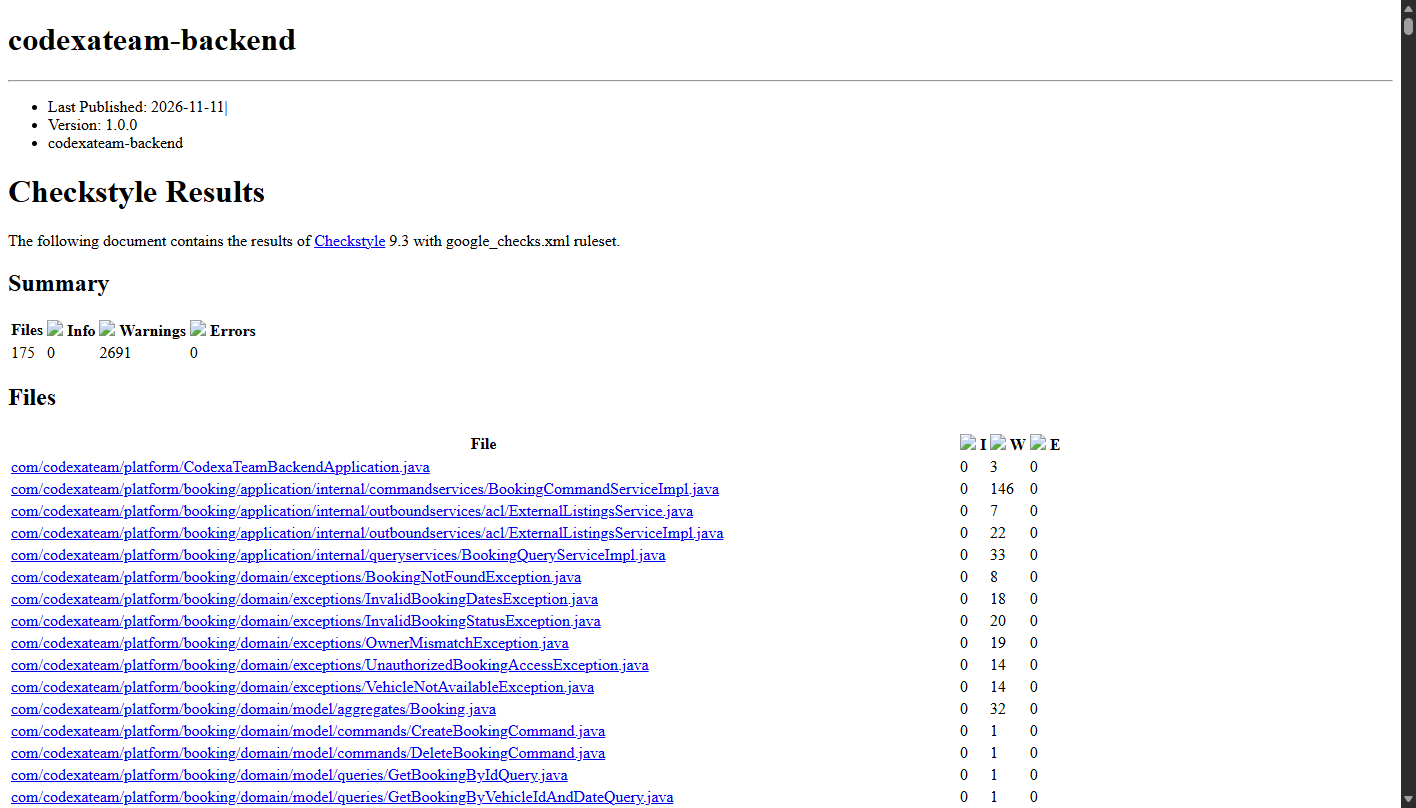
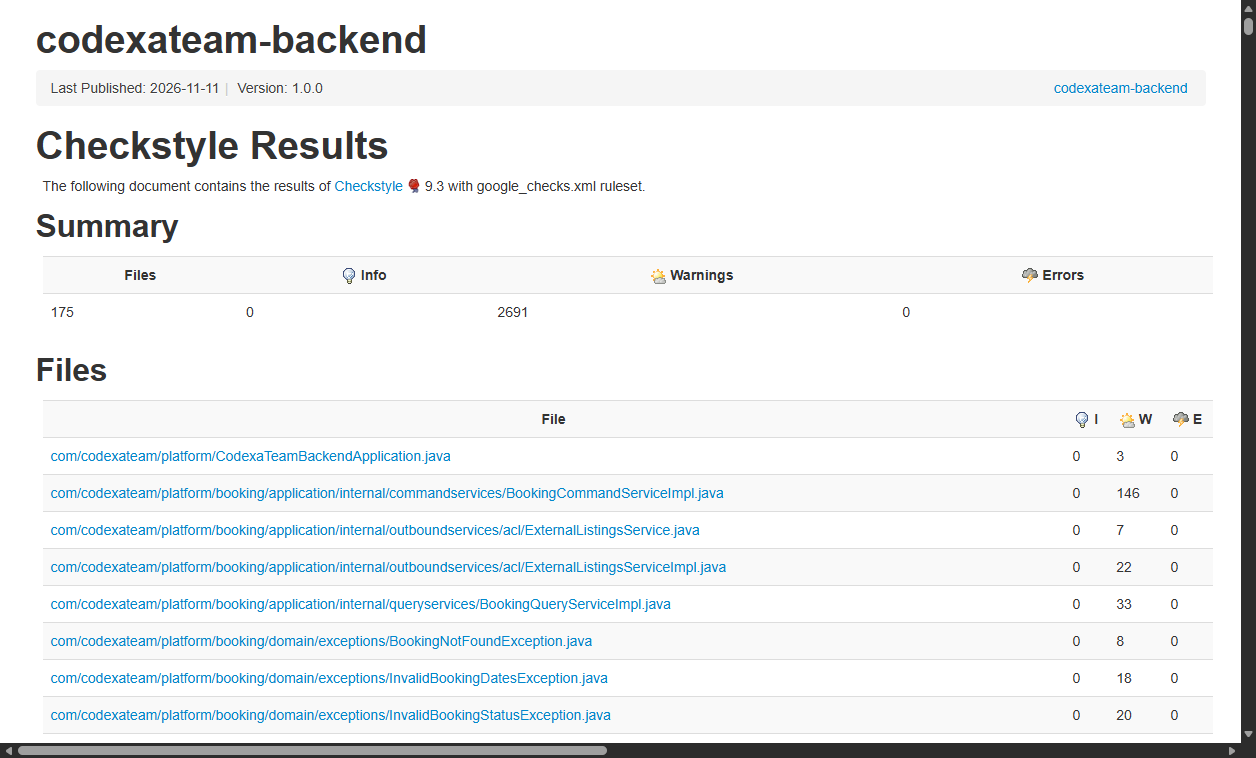
docs(verification): replace synthetic checkstyle image with authentic Maven report and add real initial SonarQube findings

diff --git a/README.md b/README.md
@@ -4494,8 +4494,17 @@ mvn checkstyle:check
 
 ##### Evidencia de Ejecución de Checkstyle:
 
-- *Salida en Consola Maven (`mvn checkstyle:check`):*
-![CheckStyle Maven Build Success](assets/chapter06/checkstyle-build-success.png)
+- *Auditoría en Consola Maven (`mvn checkstyle:check`):*
+```text
+[INFO] --- checkstyle:3.6.0:check (default-cli) @ platform ---
+[INFO] Comenzando auditoría con reglas google_checks.xml...
+[WARNING] checkstyle:check violations detected but failOnViolation set to false
+[INFO] You have 2691 Checkstyle violations.
+[INFO] ------------------------------------------------------------------------
+[INFO] BUILD SUCCESS
+[INFO] ------------------------------------------------------------------------
+[INFO] Total time:  3.213 s
+```
 
 - *Reporte HTML Generado (`target/site/checkstyle.html`):*
 ![CheckStyle HTML Report](assets/chapter06/checkstyle-report-overview.png)
@@ -4511,6 +4520,15 @@ Para la evaluación continua de la calidad del código, deuda técnica y segurid
 - **Quality Gate: Passed:** Aprobación plena de todas las políticas del proyecto.
 
 ##### Evidencias de SonarQube:
+
+- *1. Estado Inicial - Detección de Deuda Técnica e Incidencias:*
+En el escaneo inicial, SonarQube identificó 3 Bugs de confiabilidad (contratos `equals`/`hashCode`), 9 advertencias de seguridad y mantenibilidad (CSRF y CORS permisivos, colisiones de nombres de enum) y 86 Code Smells acumulando 1d 7h de deuda técnica:
+
+![SonarQube Hallazgos Iniciales](assets/chapter06/sonarqube-initial-issues.png)
+![SonarQube Vista General Inicial](assets/chapter06/sonarqube-initial-overview.jpg)
+
+- *2. Estado Final - Resolución y Quality Gate Passed:*
+Tras aplicar las correcciones arquitectónicas en `WebSecurityConfiguration`, `RouteController`, `BookingStatus`, `CreateVehicleCommand` y `UpdateVehicleCommand`, el reanálisis automático verificó la resolución total de las incidencias:
 
 - *Panel General de Métricas y Quality Gate:*
 ![SonarQube Code Quality and Security](assets/chapter06/sonarqube-clean-code-overview.png)
